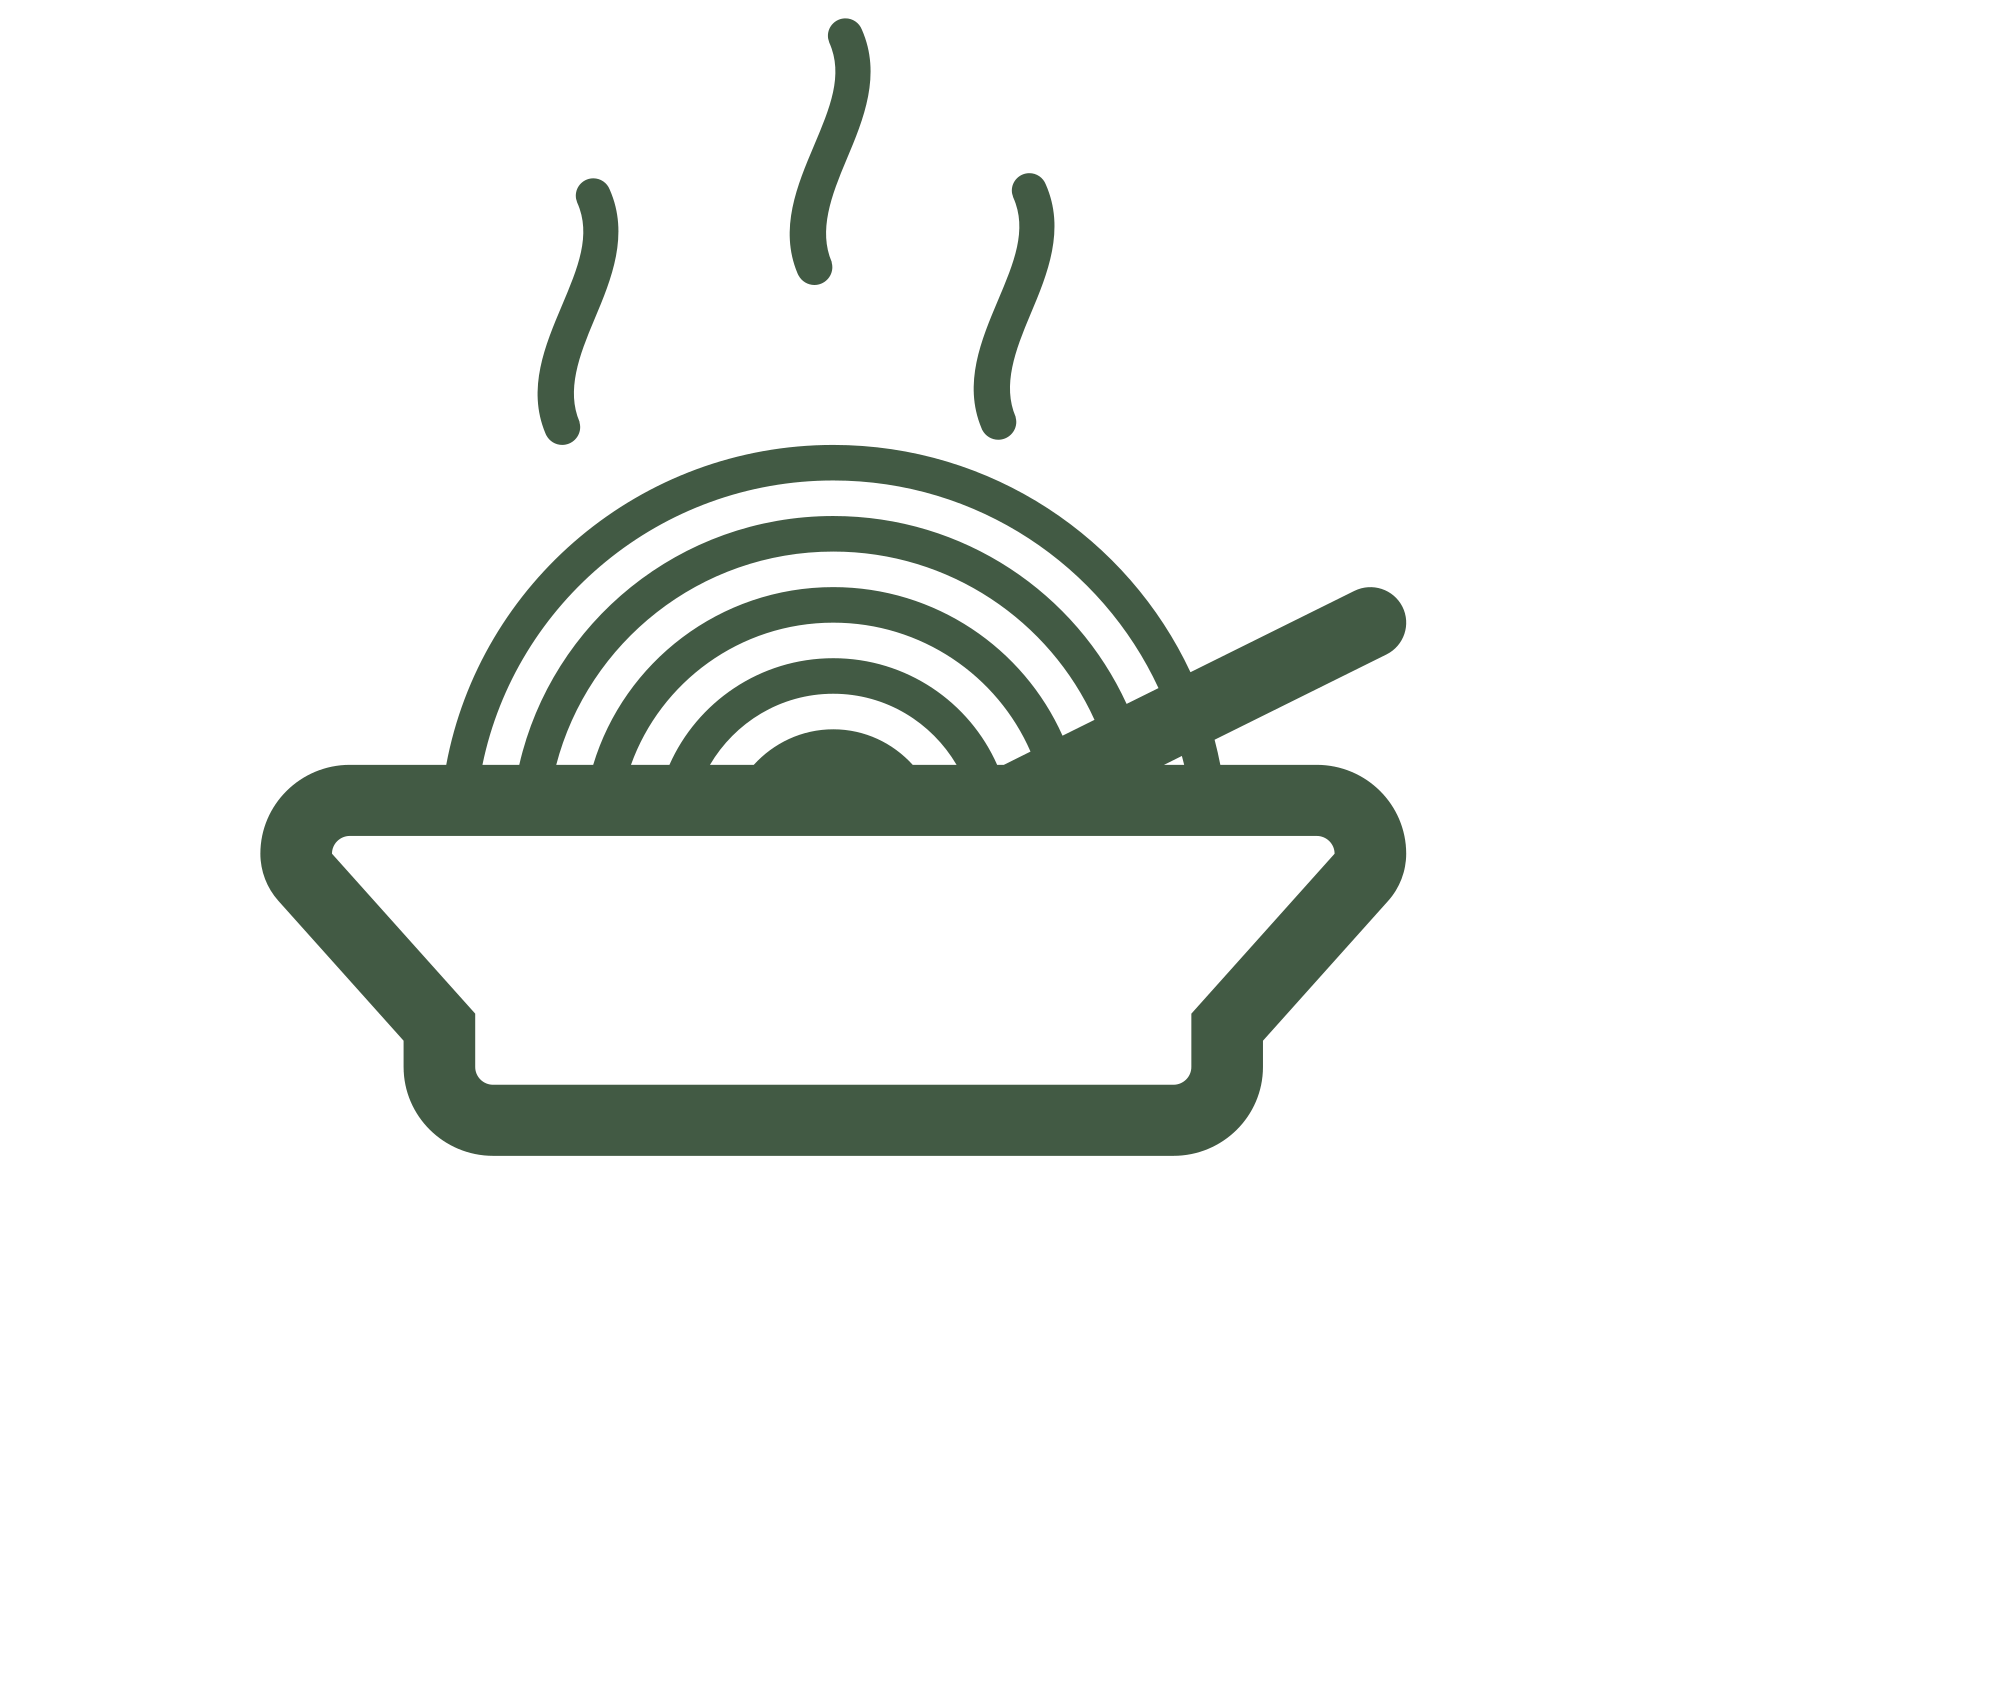
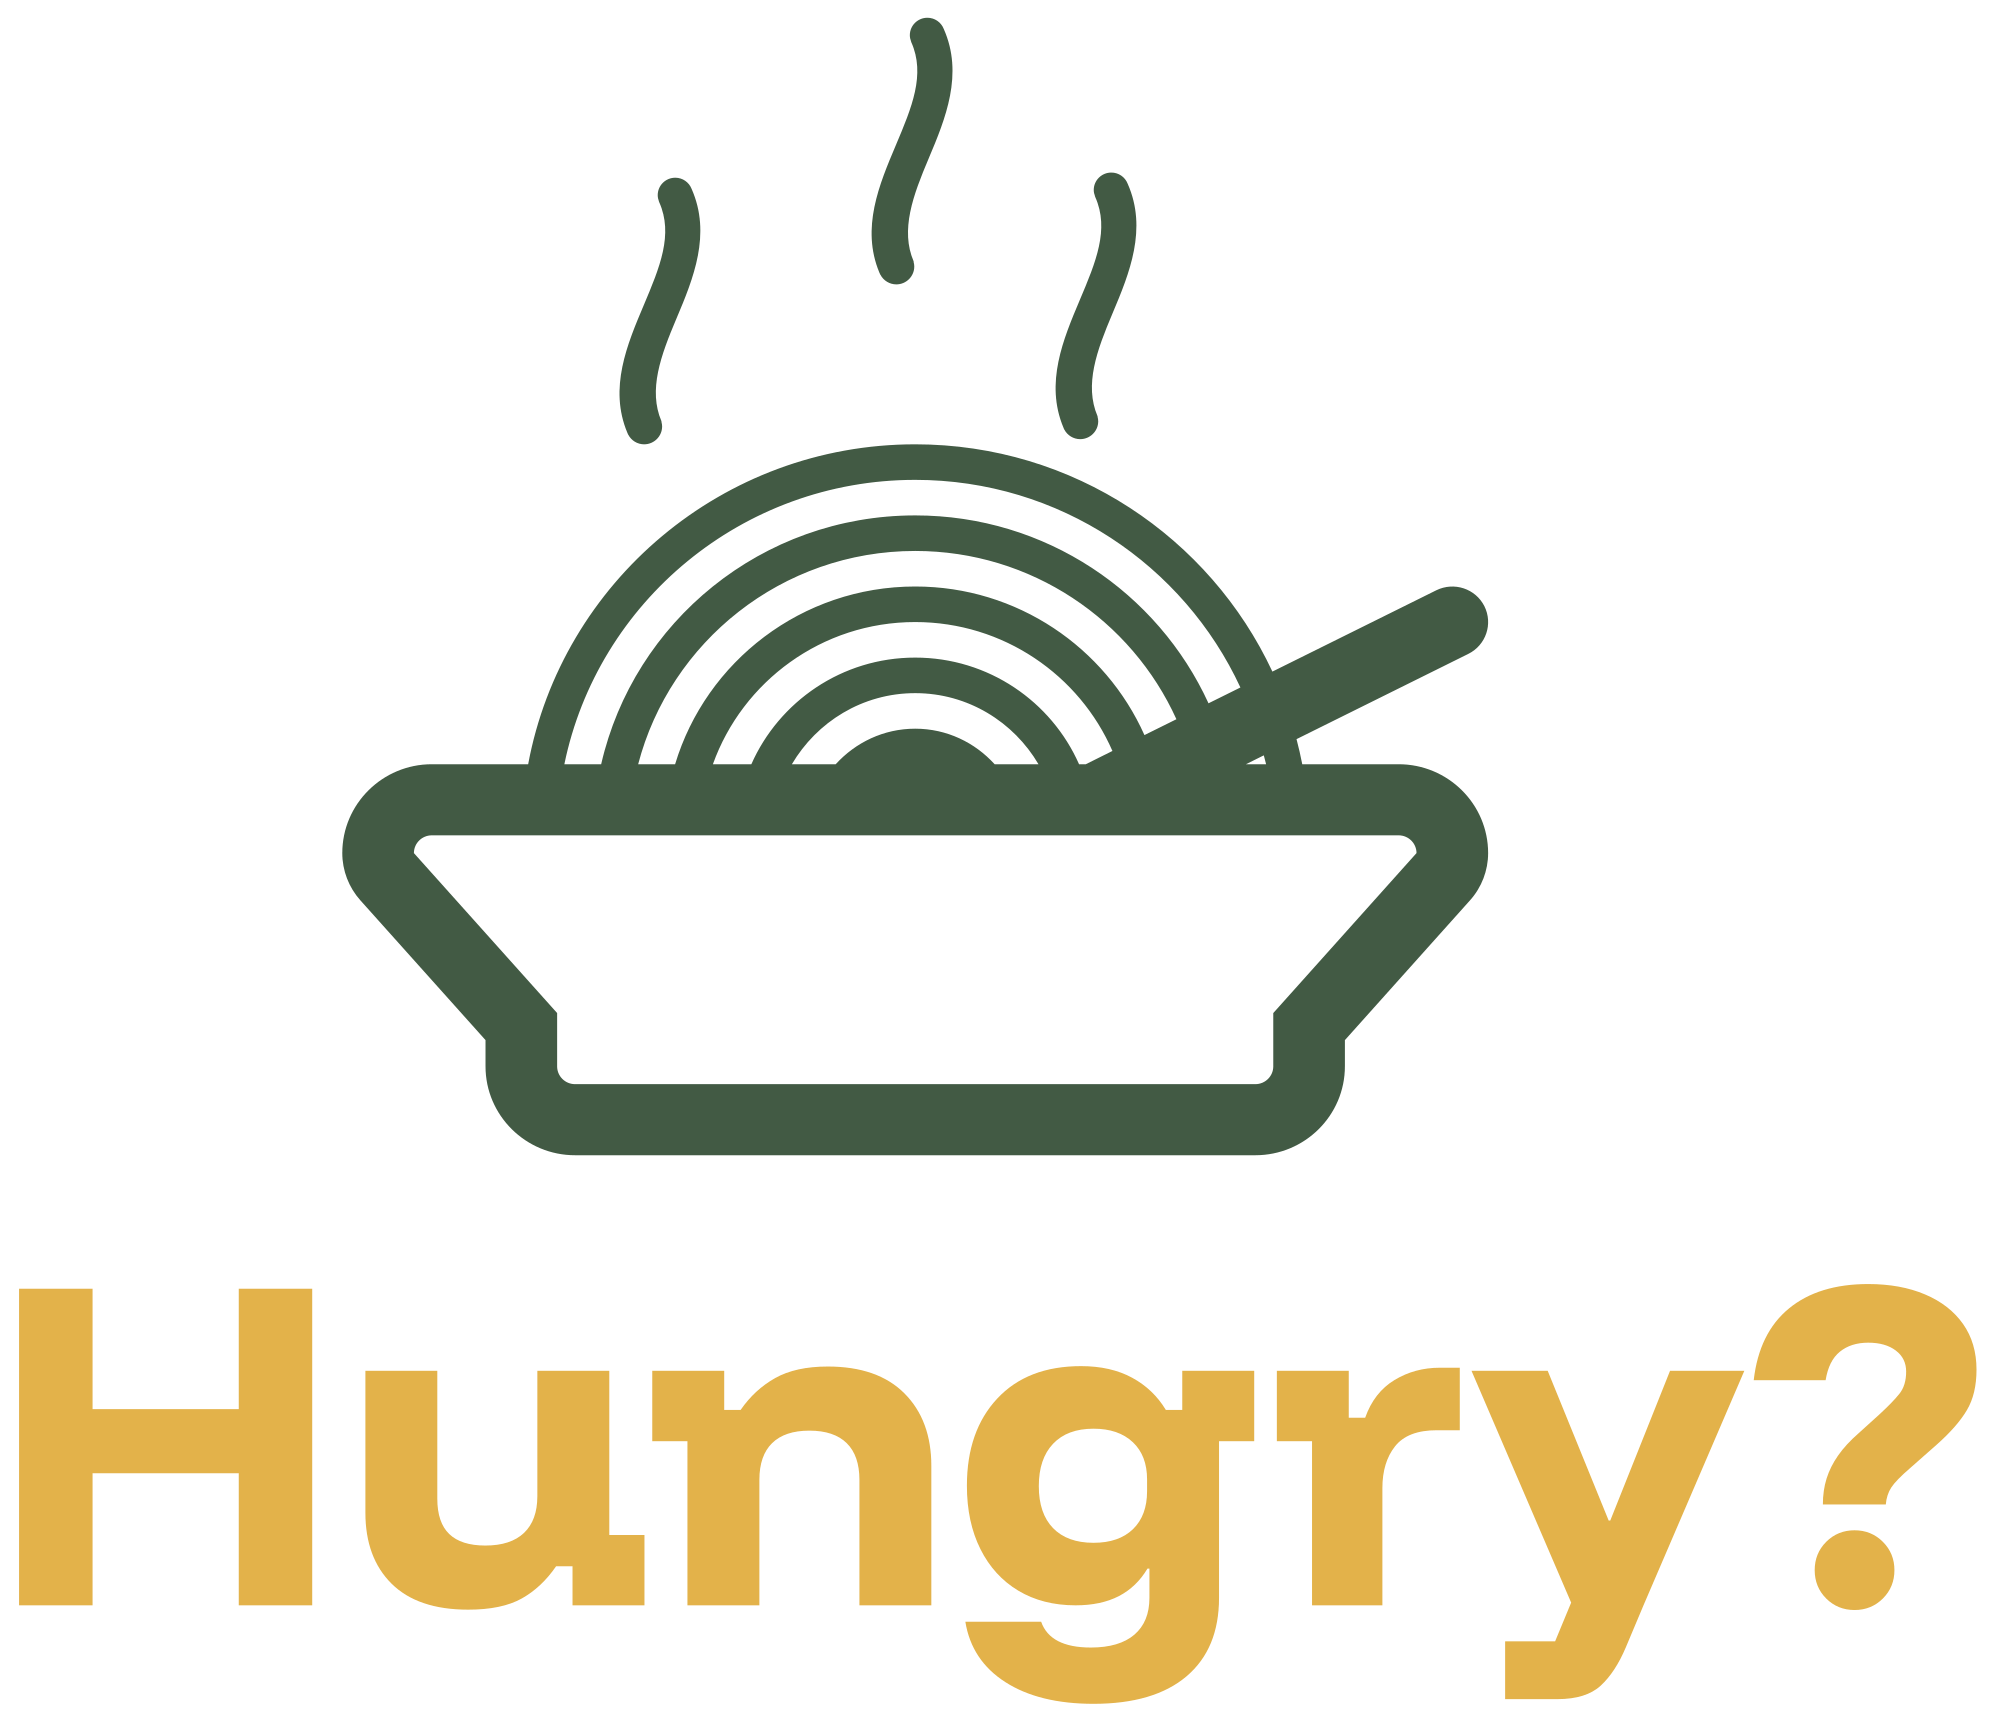
home-page again

Changed region(s): [[0.124, 0.0, 0.744, 0.7056], [0.0, 0.7363, 0.992, 1.0]]

diff --git a/app/assets/stylesheets/components/_home.scss b/app/assets/stylesheets/components/_home.scss
@@ -1,47 +1,68 @@
-
+section{
+ background: #3d9970;
+ height: 100vh;
+ width: 100vw;
+}
 .container-home {
   display: flex;
   flex-direction: column;
   height: 100vh;
   width: 100vw;
-  margin: 0;
 }
 
 .image-wrapper,
 .homepage-container {
   flex: 1 1 50%;
   position: relative;
+
 }
 
+@keyframes shake {
+  0% { transform: translateX(0); }
+  25% { transform: translateX(2px); }
+  50% { transform: translateX(-2px); }
+  75% { transform: translateX(2px); }
+  100% { transform: translateX(0); }
+}
+
+@mixin shake-animation($duration: 0.8s) {
+  animation: shake $duration linear infinite;
+}
+
+
 .image-wrapper img {
-  width: 100%;
-  height: 100%;
+  @include shake-animation(0.8s);
+  width: 80%;
+  height: 80%;
   object-fit: cover;
   display: block;
 }
 
+
 .homepage-container {
-  background: url('https://media.istockphoto.com/id/1198380802/vector/food-background-vegetables-seamless-pattern-healthy-eating-tomato-garlic-carrot-pepper.jpg?s=612x612&w=0&k=20&c=jHB3uTWZrakPyAgqSQfOApxSq_jIwHRx00LiOV2YHEk=');
-  height: 50%;
-  width: 100%;
-  background-size: cover;
-  background-repeat: no-repeat;
+  background: transparent ;
+  height: auto;
+  width:auto;
   background-position: center center;
   display: flex;
   flex-direction: column;
   justify-content: center;
   align-items: center;
   text-align: center;
-  padding: 2rem;
+
+    h2 {
+    font-family: 'Fredoka', sans-serif;
+    font-size: 2em;
+    color: #F4F4F4;
+    margin-bottom: 1.5rem;
+  }
 }
 
-.homepage-subheading {
-  font-size: 1rem;
-  color: #263740;
-  opacity: 0.8;
-  margin-bottom: 1.5rem;
-  font-family: 'Fredoka', sans-serif;
-}
+
+
+
+
+
 
 /* Responsive adjustment for narrow screens (e.g. iPhone 12 Pro ~390px width) */
 @media (max-width: 480px) {

diff --git a/app/assets/stylesheets/components/_footer.scss b/app/assets/stylesheets/components/_footer.scss
@@ -1,6 +1,6 @@
 .footer {
   font-family: 'Fredoka', sans-serif;
-  background:$bg-green;
+  background: $bg-green;
   position: fixed;
   bottom: 0;
   width:100%;
